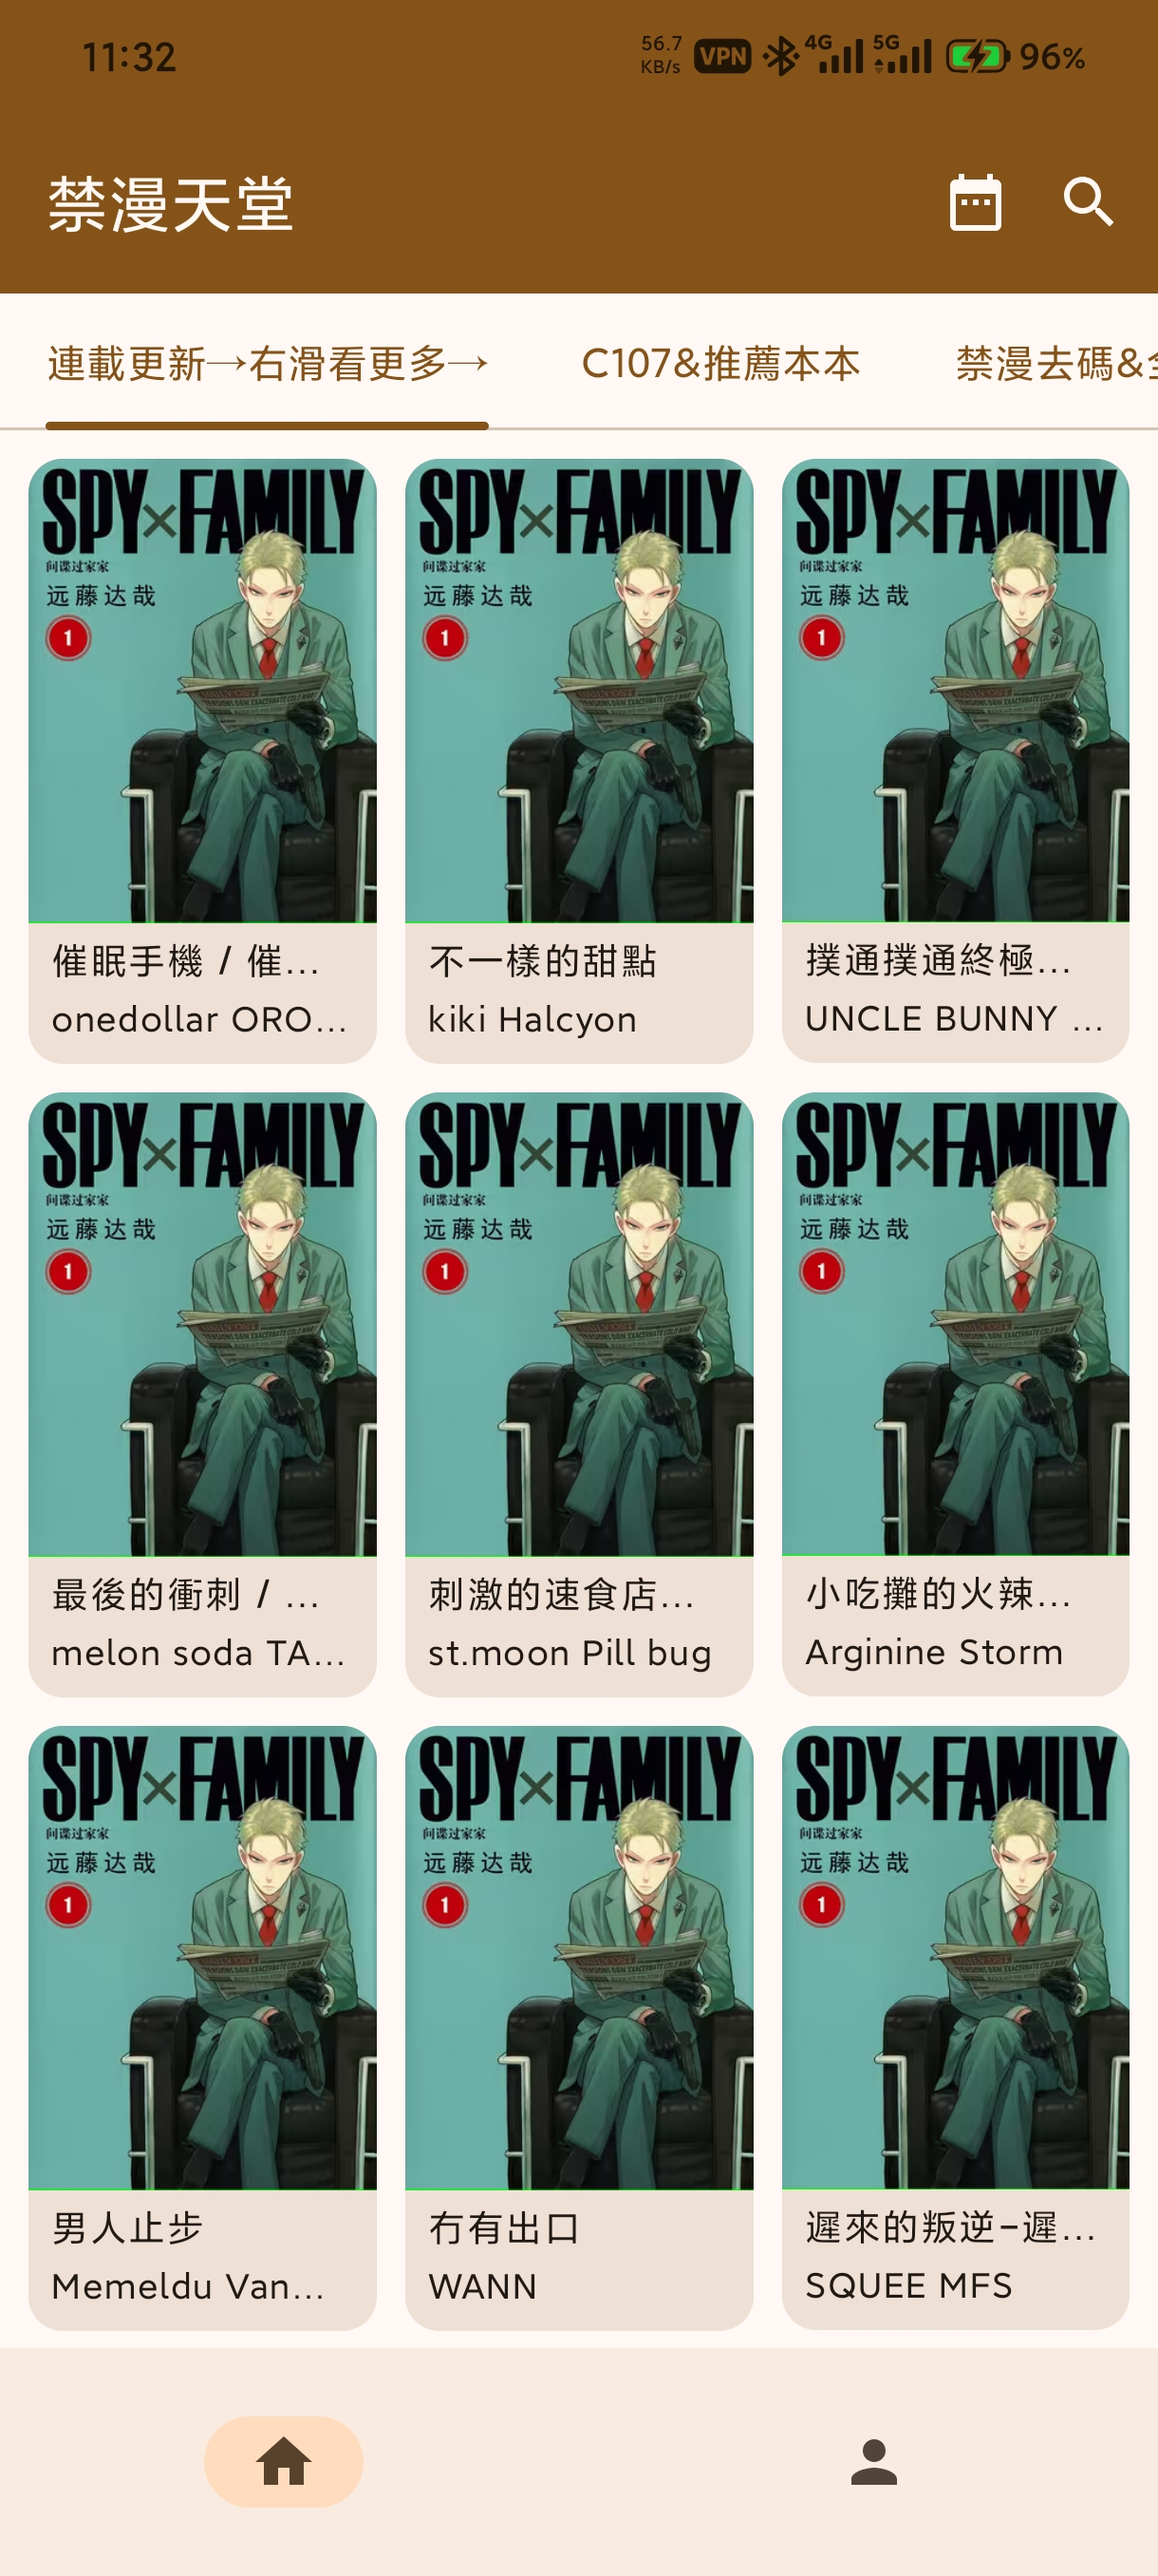
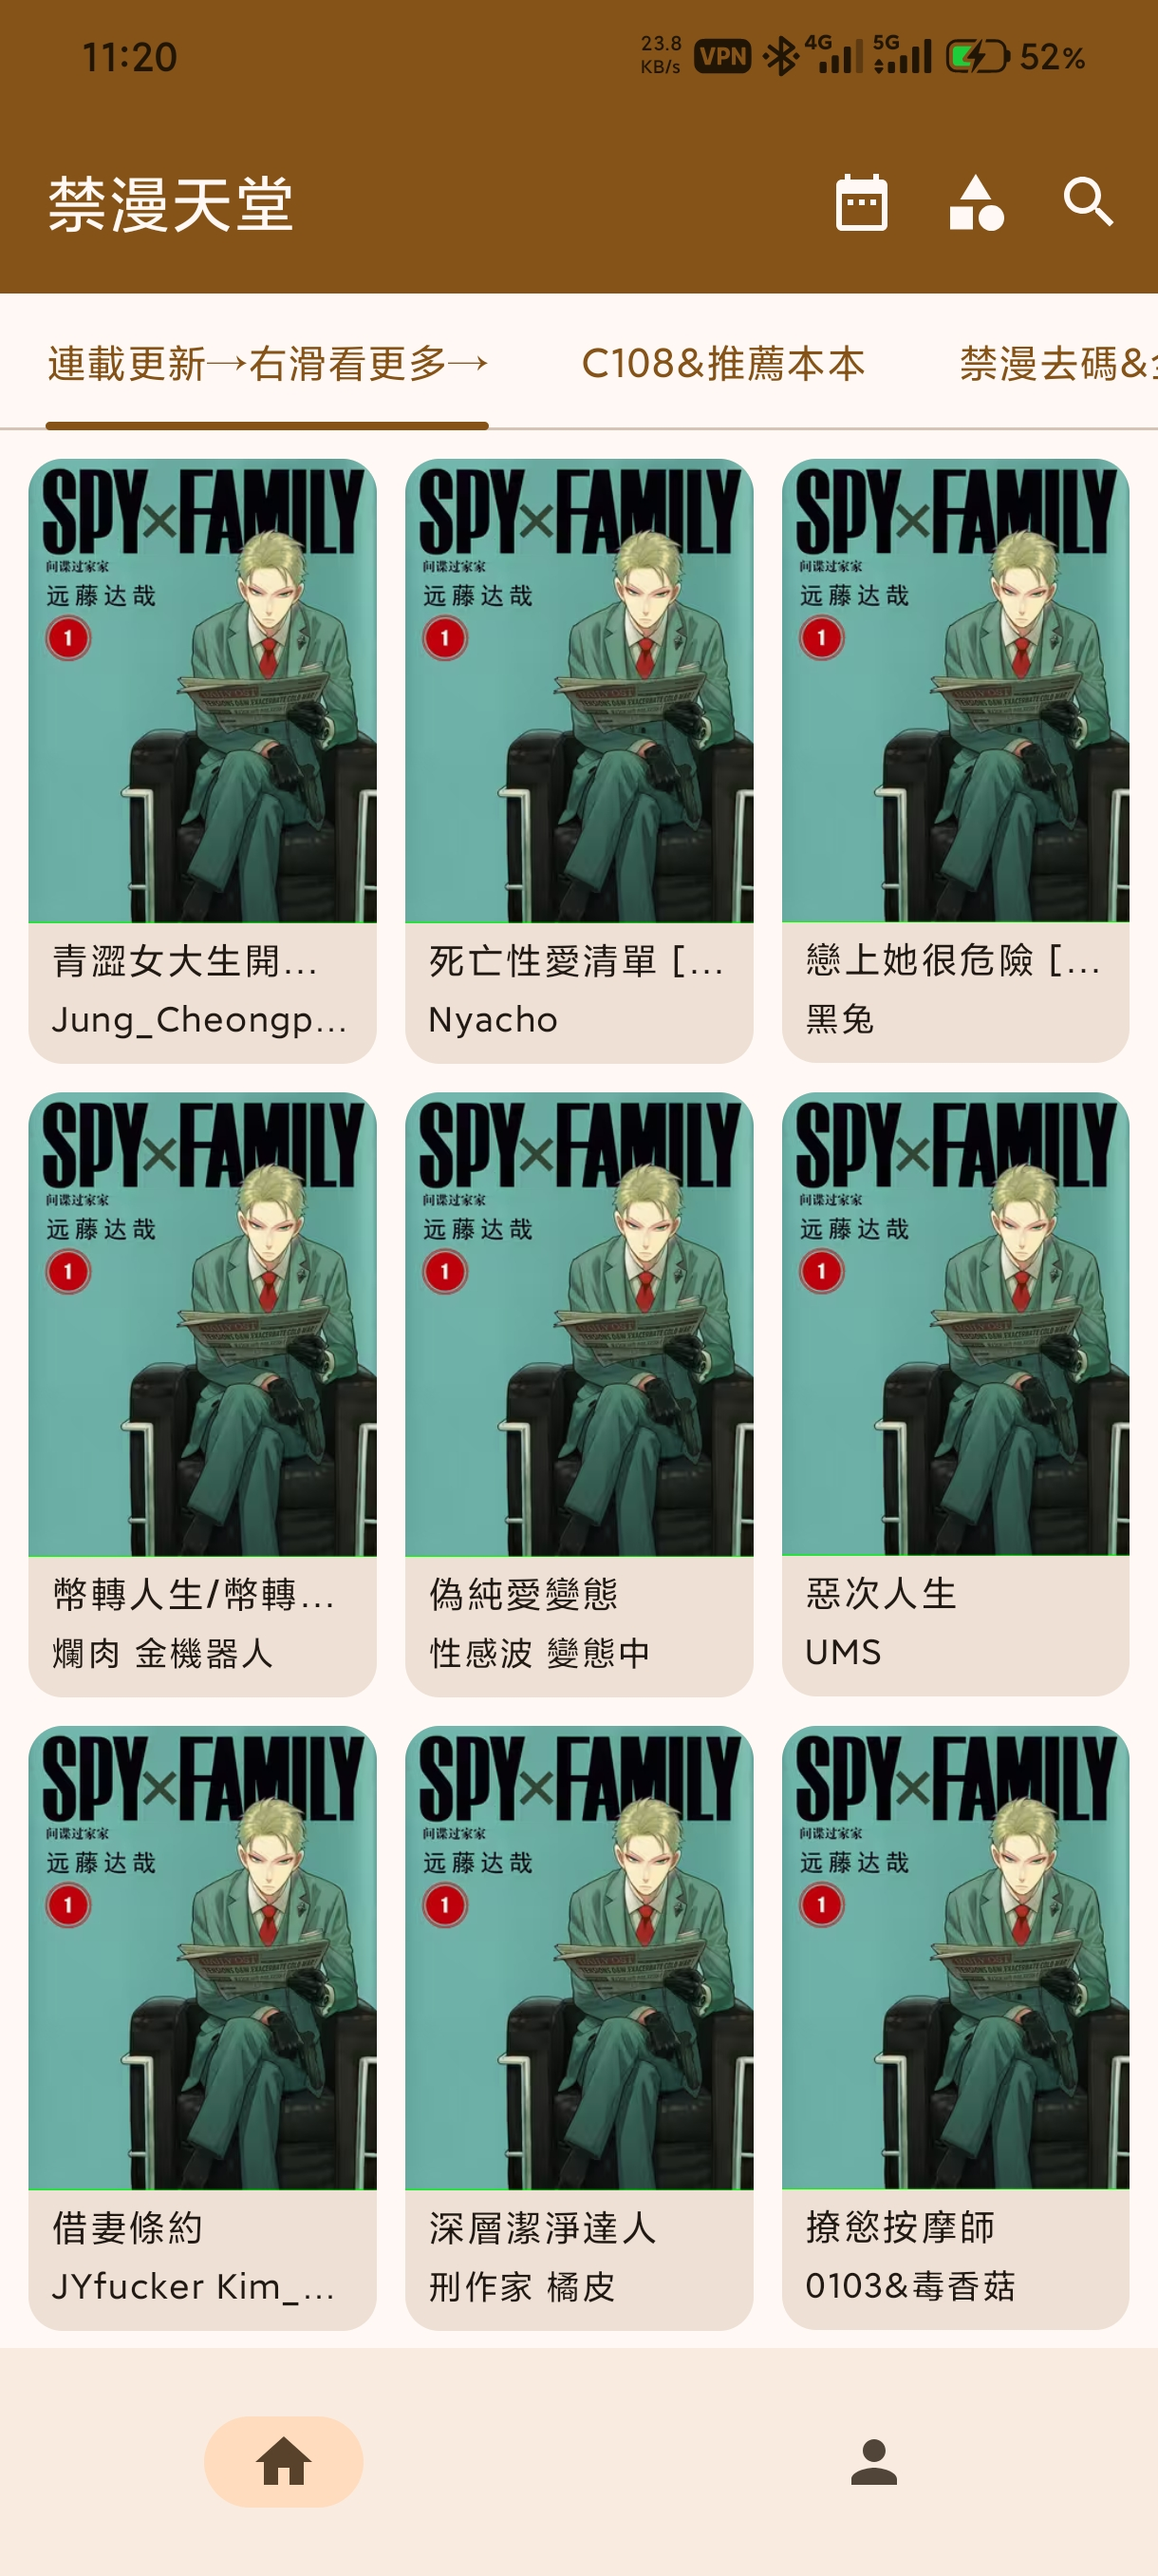
version: 1.3.0

diff --git a/CHANGELOG.md b/CHANGELOG.md
@@ -1,10 +1,26 @@
 # TODO
 
-- 首页顶部去除某些不支持的 tab
-- 弹框改为底部抽屉
-- 路由动画
-- 分享
-- 下载？
+- 分享?
+- 下载?
+
+# v1.3.0
+
+- 新增了分类搜索页
+  ![](https://fastly.jsdelivr.net/gh/Dedicatus546/image@main/2026/08/11/20260811105826814.avif)
+- 阅读页底部设置增加主题切换
+  ![](https://fastly.jsdelivr.net/gh/Dedicatus546/image@main/2026/08/11/20260811105941208.avif)
+- 详情页右上角 JM 号支持点击复制
+- 为列表页添加了空列表时的 UI , 错误 UI 从三月七改为帕姆
+  | 空白 UI | 错误 UI |
+  |-----------------------------------|-----------------------------------|
+  | ![](https://fastly.jsdelivr.net/gh/Dedicatus546/image@main/2026/08/11/20260811105419669.avif) | ![](https://fastly.jsdelivr.net/gh/Dedicatus546/image@main/2026/08/11/20260811105640870.avif) |
+- 每周推荐页日期选择改为底部弹框
+  ![](https://fastly.jsdelivr.net/gh/Dedicatus546/image@main/2026/08/11/20260811110019716.avif)
+- 路由动画从默认的渐入渐出改为左右推入
+- 去除了首页不支持的禁漫书库和禁漫小说 tab
+- 修复了横竖屏切换闪退问题
+
+**>=1.2.0 可以直接覆盖安装，其余版本建议卸载后再安装**
 
 # v1.2.1
 
@@ -24,10 +40,12 @@
 - 阅读页弹层设置包含：亮度跟随系统，亮度控制，阅读模式切换，分流切换，预加载数量切换，显示页码，屏幕常亮，图片缩放。亮度跟随系统、显示页码默认开启，屏幕常亮、图片缩放默认关闭
 - 添加了额外的阅读模式，现在包含三种，左到右翻页，右到左翻页，滚动
 - 阅读页添加了重试 UI ，包括获取图片列表失败，或者图片解码错误
-- 统一了大多数列表在首次加载时的 Loading 效果，现在一般是，第一次加载显示骨架屏，其余时候下拉刷新只显示顶部下拉附带的转圈 loading 
+- 统一了大多数列表在首次加载时的 Loading 效果，现在一般是，第一次加载显示骨架屏，其余时候下拉刷新只显示顶部下拉附带的转圈
+  loading
 - 大多数带过滤项的列表页在切换过滤项后列表会自动滚动到顶部
 - 调整了相关本子页面、本子章节页面取数据的逻辑
-- 调整了搜索页跳转到搜索结果页或者本子详情页的逻辑，以前是搜索页->搜索结果页（接口如果是数字搜索）->本子详情页，现在改为 本子详情页<-搜索页（提前调取一次接口）->搜索结果页
+- 调整了搜索页跳转到搜索结果页或者本子详情页的逻辑，以前是搜索页->搜索结果页（接口如果是数字搜索）->
+  本子详情页，现在改为 本子详情页<-搜索页（提前调取一次接口）->搜索结果页
 - 调整了登录页的输入逻辑，现在会在失焦时自动去除首尾空格
 - 调整了日夜间模式下的样式
 - 修复了阅读页点击屏幕进行左右翻页无效问题

diff --git a/README.md b/README.md
@@ -25,8 +25,8 @@
 - [x] 自动登录
 - [x] 相关漫画
 - [x] 图片分流
+- [x] 漫画分类搜索
 - [ ] 漫画下载
-- [ ] 漫画分类搜索
 
 ## 截图
 
@@ -48,10 +48,9 @@
 |------------------------------|--------------------------------|
 | ![](./readme-assets/阅读页.jpg) | ![](./readme-assets/阅读页设置.jpg) | 
 
-| 搜索                           | 搜索结果                         |
-|------------------------------|------------------------------|
-| ![](./readme-assets/搜索1.jpg) | ![](./readme-assets/搜索2.jpg) | 
-
+| 搜索                           | 搜索结果                         | 分类搜索                          | 
+|------------------------------|------------------------------|-------------------------------|
+| ![](./readme-assets/搜索1.jpg) | ![](./readme-assets/搜索2.jpg) | ![](./readme-assets/分类搜索.jpg) |
 
 ## 声明
 
